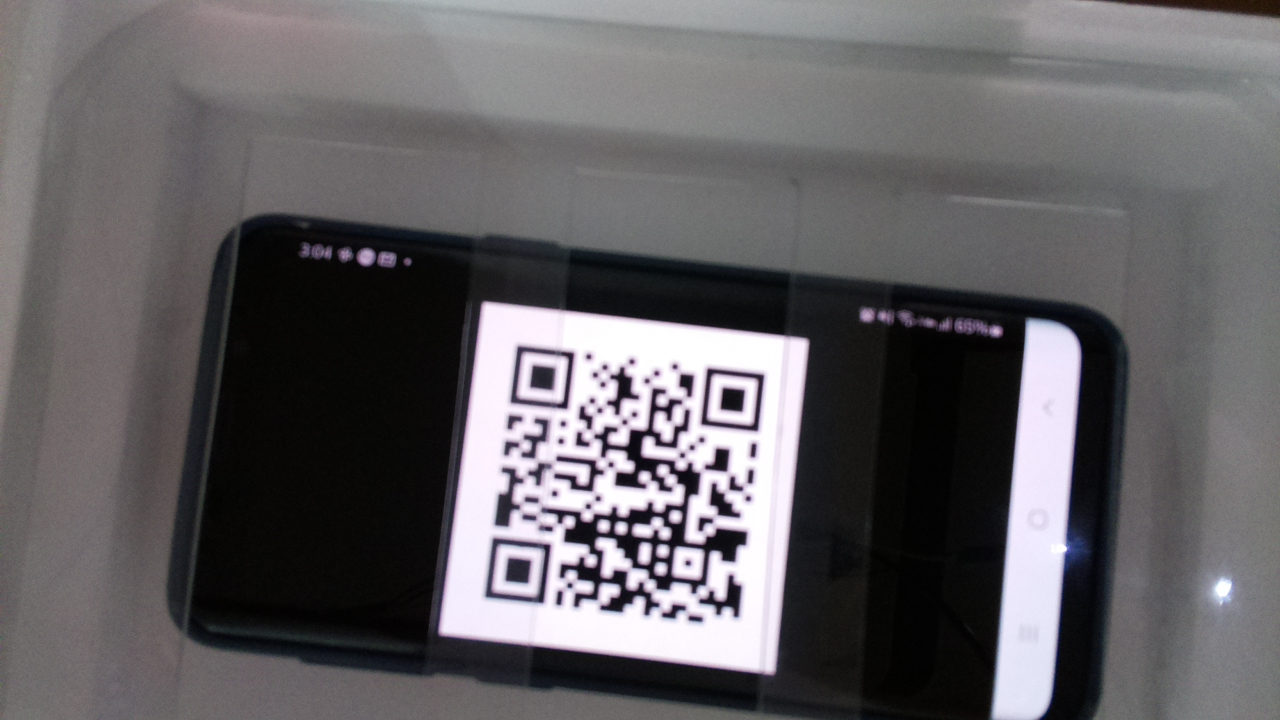
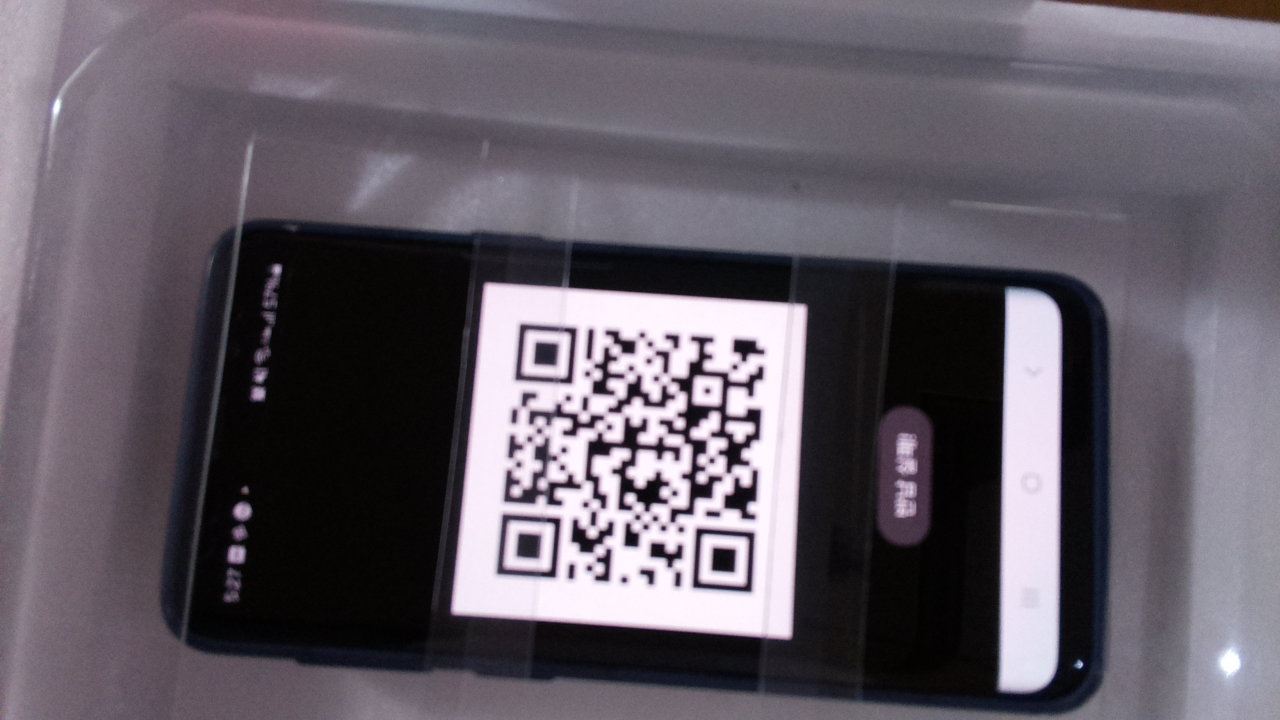
BUG : APP에서 읽은 QR코드 잘 해독하기
완료!

Resolves #71

diff --git a/main.py b/main.py
@@ -205,7 +205,7 @@ def server_connect():
     nowtry = 1
     while nowtry <= SERVER_MAXTRY:
         resp = requests.get(SERVER_URL)
-        if resp.status_code != 200:
+        if resp.status_code != 201:
             print("    Server doesn't respond... (", nowtry, "/", SERVER_MAXTRY, ")")
             if nowtry == SERVER_MAXTRY:
                 print("Failed to Connect Server. Operating as a Offline Mode.")
@@ -464,7 +464,7 @@ def server_returnValid(id, TOTP, time):
 
     return response
 
-print(server_returnValid(1, 999999999, time.time()))
+# print(server_returnValid(1, 999999999, time.time()))
 
 def server_returnLog(id, returnTime, weight):
     cv2.imwrite('cam.jpeg', phone_autoCut(camera_takePhoto()))
@@ -473,7 +473,7 @@ def server_returnLog(id, returnTime, weight):
     params = {'deviceId': id, 'returnTime': np.floor(returnTime*1000), 'weight': weight, 'photo': photo_str}
     # params = {'photo': photo_str}
     
-    result = requests.post(url=SERVER_URL+'/api/soldier/device/log/create', data=json.dumps(params), headers={'Content-Type': 'application/json'})
+    result = requests.post(url=SERVER_URL+'/api/log/create', data=json.dumps(params), headers={'Content-Type': 'application/json'})
     return result
 
 # print(server_returnLog(1, time.time(), 100))
@@ -601,7 +601,7 @@ while True:
             #   Wait for next TOTP, take photo
             print('    Reading QR Code...')
             return_time = time.time()
-            # time.sleep(TOTP_DELAY)
+            time.sleep(TOTP_DELAY)
             # qr = qr_read(qr_decrypt(camera_takePhoto(), [1,0,0]))
             qr = qr_read(camera_takePhoto())
             print('    QR: ', qr)
@@ -624,12 +624,12 @@ while True:
                     for i in range(10):
                         mean_weight = mean_weight * i/(1+i) + weight_isNow() /(1+i)
                         time.sleep(0.05)
-                    print('    Weight: %f gram', mean_weight)
+                    print('    Weight: ', mean_weight)
 
                     # Change Status
                     phone_isFull = True
                     weight_saved = mean_weight
-                    admin_id = qr['adminId']
+                    admin_id = qr['adminID']
                     
                     # Save Status
                     temp_save = {'phone_isFull': True, 'weight': weight_saved, 'adminId': admin_id}
@@ -638,7 +638,7 @@ while True:
                     print('    Status Saved.')
 
                     # Request server: phone return log
-                    server_returnLog(qr['deviceId'], return_time, weight_isNow())
+                    server_returnLog(qr['deviceID'], return_time, weight_isNow())
                     print('    Sent Server Return Log.')
 
                     # Notice User Successful Phone Return
